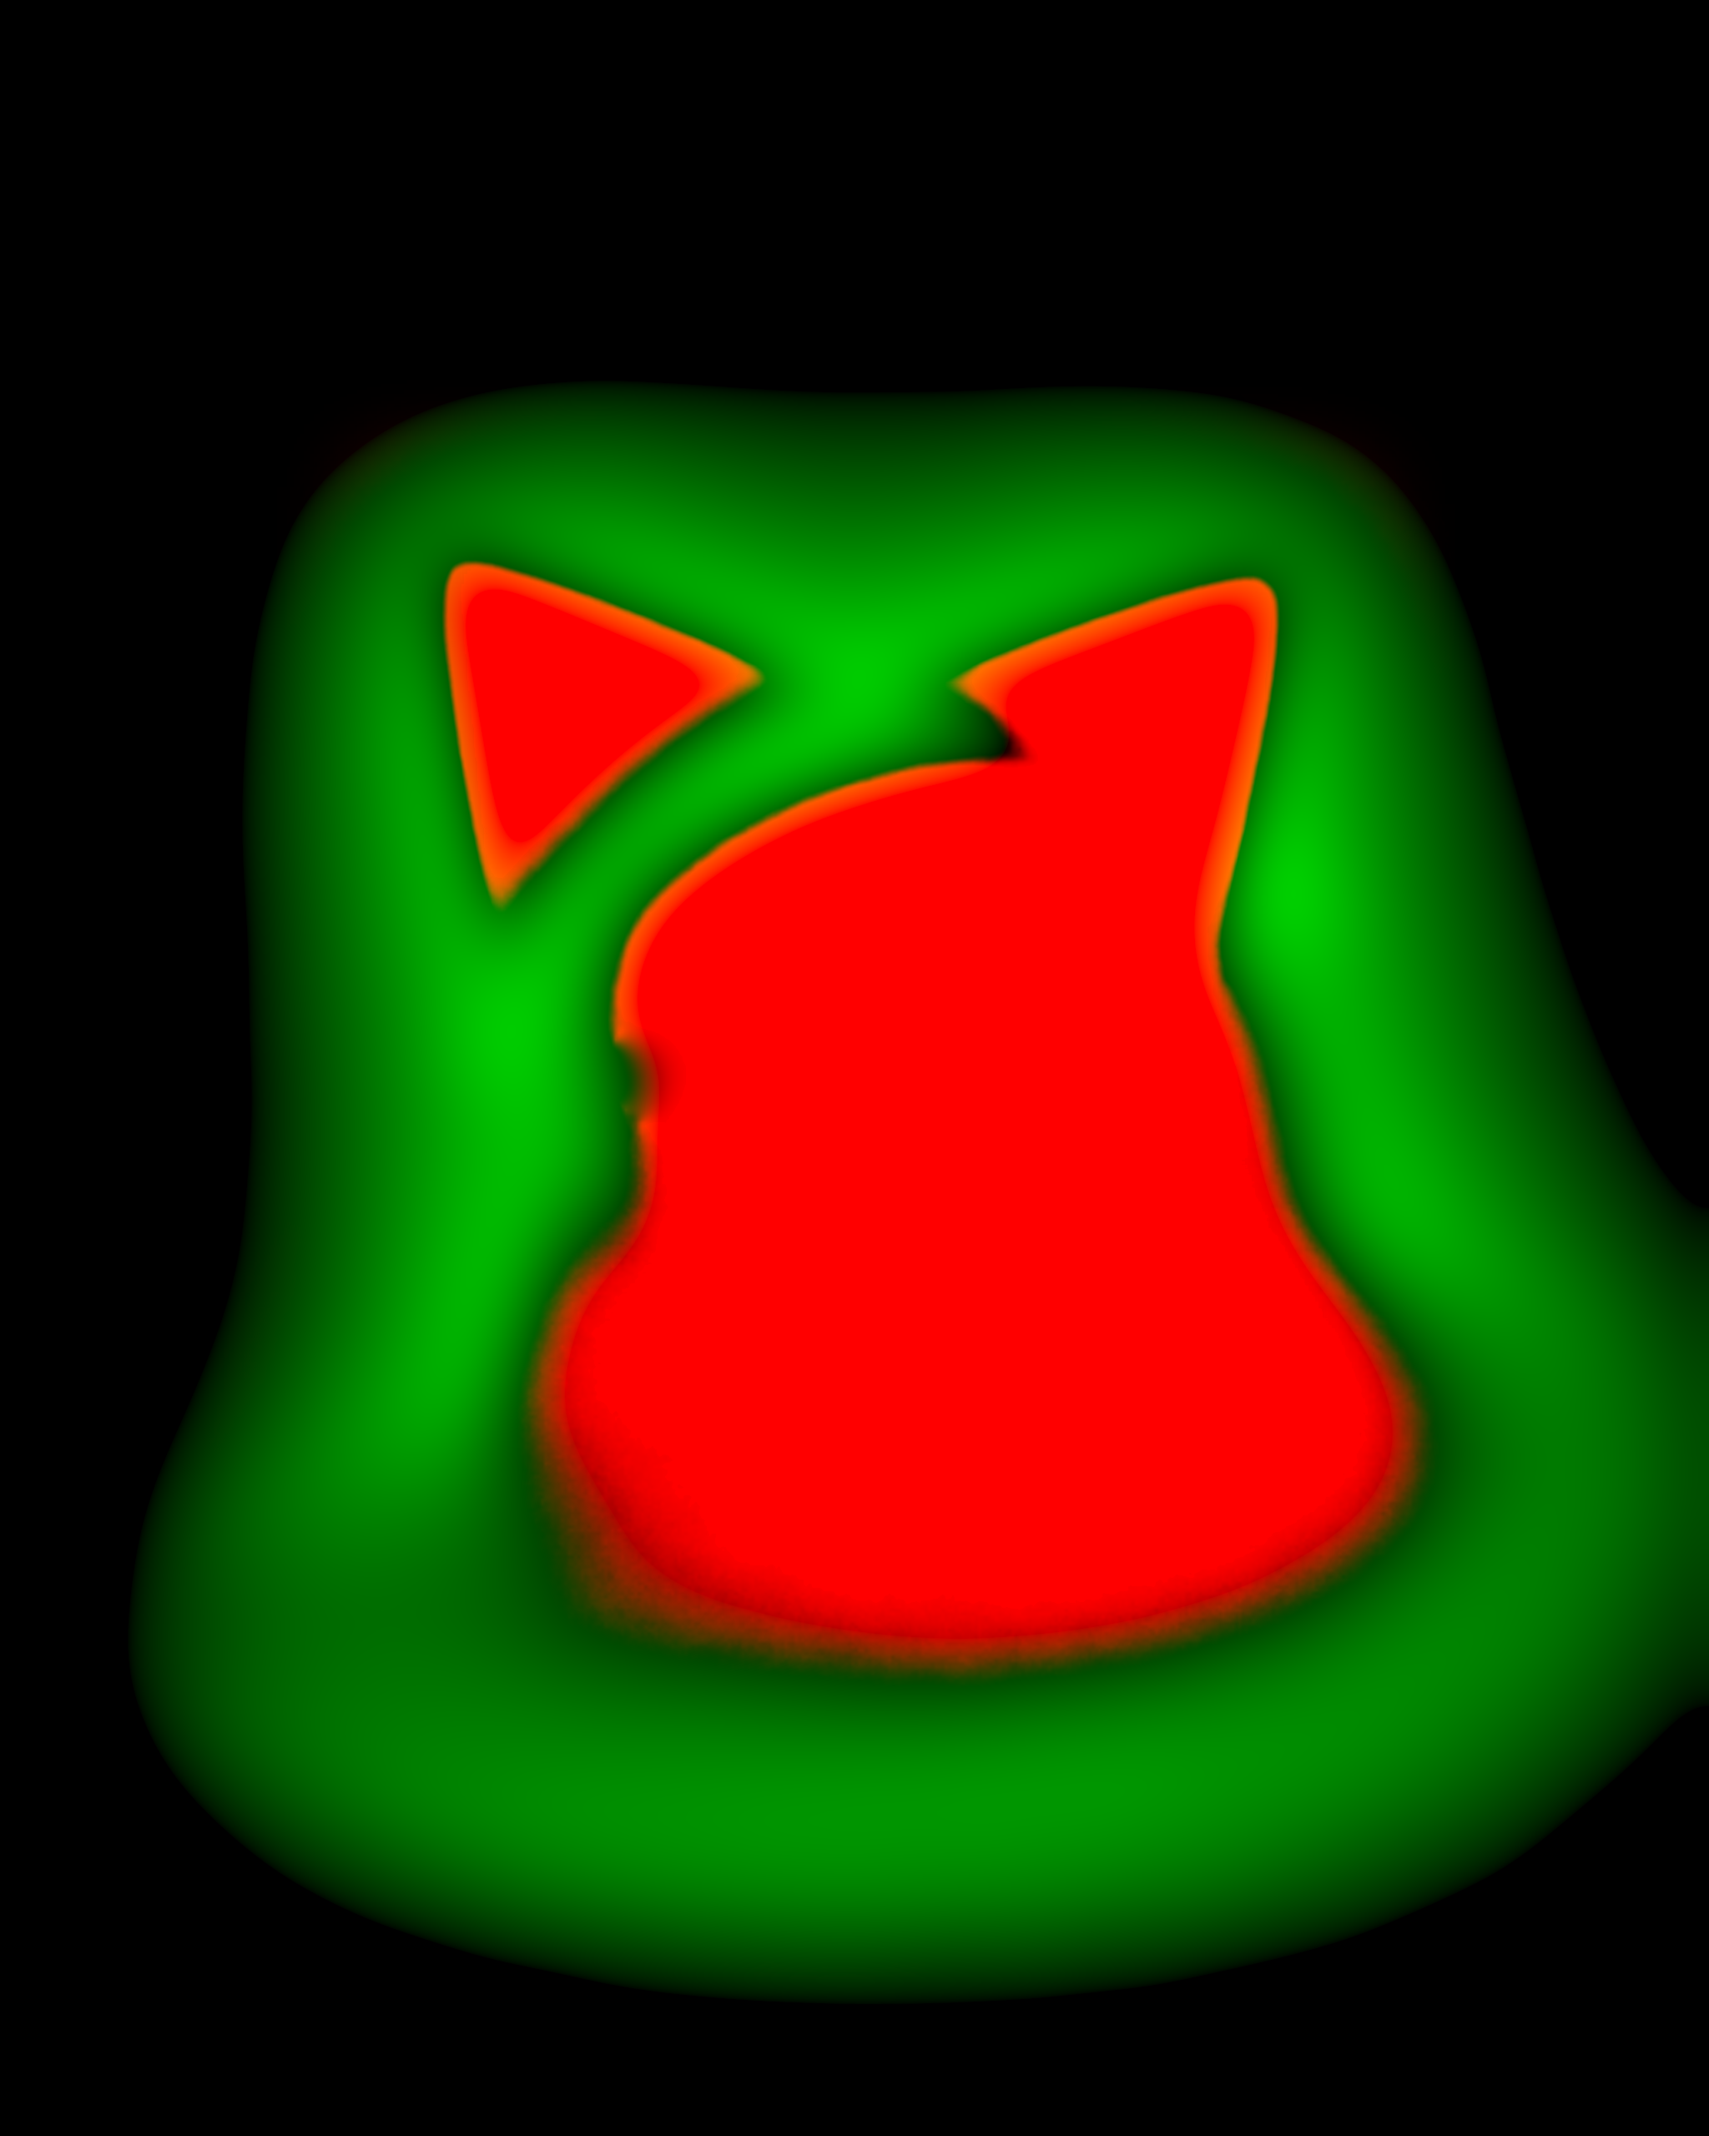
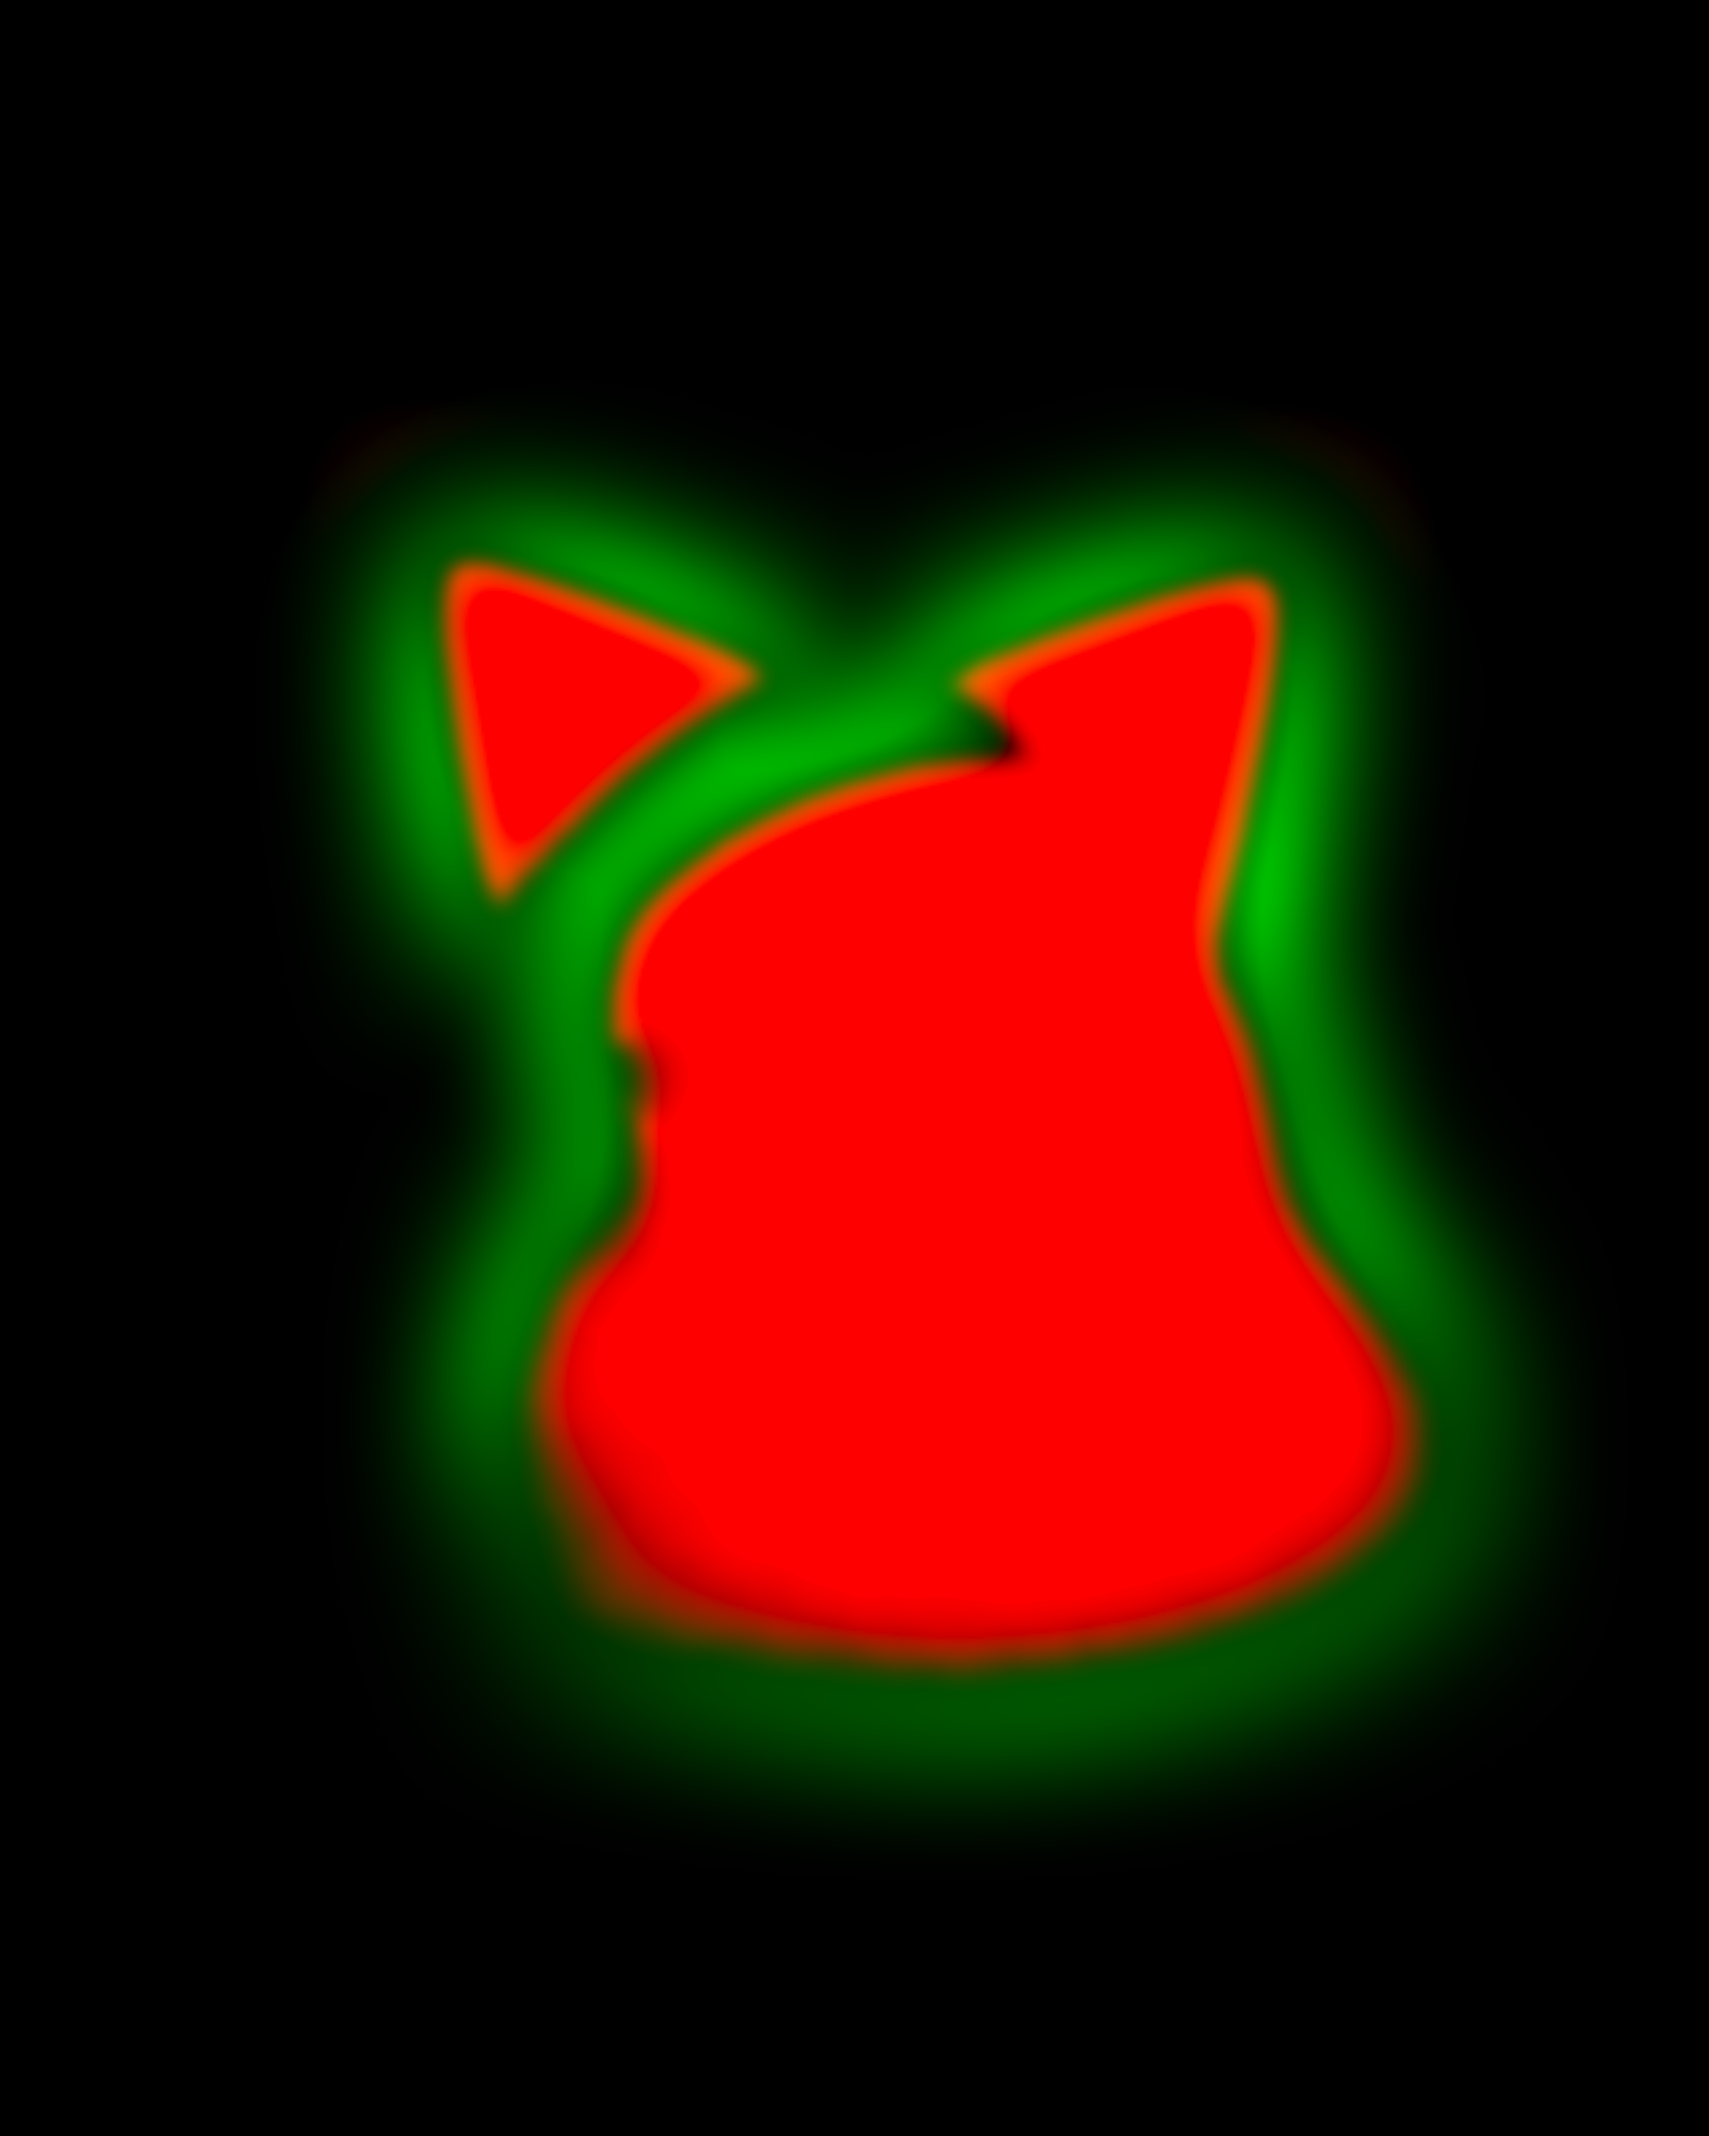
wip(kiwicat): clean halo coverage and prepare visual choices

diff --git a/app/ui/kiwicat/vectors.ts b/app/ui/kiwicat/vectors.ts
@@ -60,7 +60,7 @@ export function createVectorLayer(root: HTMLElement, width: number, height: numb
   const eyeNodes = [
     { cx: 802.823, cy: 1279.323, r: 68.251 },
     { cx: 1243.342, cy: 1279.308, r: 67.94 },
-  ].map(e => {
+  ].filter(() => !backdrop).map(e => {
     const outer = document.createElement("div");
     outer.style.cssText = `position:absolute;left:${e.cx / 2048 * 100}%;top:${e.cy / 2560 * 100}%;width:${e.r * 2 / 2048 * 100}%;height:${e.r * 2 / 2560 * 100}%;transform-origin:center;will-change:transform`;
     const disk = document.createElement("div"), happy = document.createElement("div"), asleep = document.createElement("div");
@@ -70,7 +70,6 @@ export function createVectorLayer(root: HTMLElement, width: number, height: numb
     const arc = (start: number, end: number) => path(points(64, u => { const a = (start + (end - start) * u) * Math.PI / 180; return [Math.cos(a), .1 + .55 * Math.sin(a)]; }), false);
     happy.innerHTML = wrap(`<path d="${arc(190, 350)}" stroke="white" stroke-width="${34 / e.r}" stroke-linecap="round" fill="none"/>`);
     asleep.innerHTML = wrap(`<path d="${arc(10, 170)}" stroke="white" stroke-width="${34 / e.r}" stroke-linecap="round" fill="none"/>`);
-    if (backdrop) outer.style.display = "none"; // Eyes sit on opaque coat; never add an eye halo.
     layer.append(outer);
     return { outer, disk, happy, asleep };
   });

diff --git a/app/scripts/kiwicat-cutout-variants.ts b/app/scripts/kiwicat-cutout-variants.ts
@@ -7,10 +7,10 @@ const server = await serveFogDemo("cat-demo.ts"), browser = await webkit.launch(
 try {
   const context = await browser.newContext({ viewport: { width: 800, height: 960 }, deviceScaleFactor: 1 });
   const page = await context.newPage();
-  for (const [variant, edgeBand, backing] of [["8-leve", .08, .5], ["8-forte", .08, .35], ["12-leve", .12, .5], ["12-forte", .12, .35]] as const) {
-    for (const state of ["repouso", "agindo"]) {
+  for (const [variant, backing, outline] of [["leve", .5, 1], ["forte", .35, 1], ["sem-apoio", .5, 0]] as const) {
+    for (const state of (variant === "sem-apoio" ? ["thinking"] : ["repouso", "dormindo", "acordou", "ouvindo", "thinking", "agindo", "pronto", "erro"])) {
       for (const background of ["000000", "ffffff", "367a8e"]) {
-        await page.goto(server.url + `/?state=${state}&parado=1&cutout=1&backing=${backing}&outline=1&edgeBand=${edgeBand}&background=%23${background}`);
+        await page.goto(server.url + `/?state=${state}&parado=1&cutout=1&backing=${backing}&outline=${outline}&edgeBand=.08&background=%23${background}`);
         await page.evaluate(() => { document.getElementById("fog")!.style.margin = "80px"; });
         await page.waitForFunction(() => (window as any).kiwiCatReady);
         await page.screenshot({ path: `${out}/${variant}-${state}-${background}.png` });

diff --git a/app/scripts/kiwicat-cutout-assets.py b/app/scripts/kiwicat-cutout-assets.py
@@ -1,5 +1,5 @@
 #!/usr/bin/env python3
-"""T9708: coverage from approved source layers, never from coat brightness.
+"""T9708: coverage from approved source layers, not brightness alone.
 Only generates new cutout files; opaque approved textures remain untouched.
 """
 from pathlib import Path
@@ -20,6 +20,9 @@ v=np.clip((observed-.08)/(.20-.08),0,1)
 # The layer alpha contains luminous feather outside the coat. Keep geometric
 # coverage only where the observed material is dark, not that luminous fringe.
 coat=coat*(1-v*v*(3-2*v))
+coat=np.asarray(Image.fromarray(np.uint8(np.rint(coat*255))).filter(ImageFilter.GaussianBlur(10)),np.float32)/255
+v=np.clip((coat-.003)/(.025-.003),0,1)
+coat=coat*v*v*(3-2*v)
 coat=np.where(coat>.98,1,coat)
 light=np.asarray(Image.open(DEST/'reference-no-eyes.webp').convert('RGB'),np.float32).max(2)
 light=np.asarray(Image.fromarray(light).resize((640,800),Image.Resampling.BILINEAR),np.float32)/255
@@ -33,9 +36,14 @@ def box(a,axis,r=10):
     hi=[slice(None),slice(None)]; lo=hi.copy(); hi[axis]=slice(2*r+1,None);lo[axis]=slice(None,-2*r-1)
     return ((c[tuple(hi)]-c[tuple(lo)])/(2*r+1)).astype(np.float32)
 for _ in range(3): light=box(box(light,0),1)
+proximity=np.asarray(Image.fromarray(coat).resize((640,800),Image.Resampling.BILINEAR),np.float32)
+for _ in range(3): proximity=box(box(proximity,0,r=25),1,r=25)
+proximity=np.clip(proximity*3,0,1)
+# Gate only the support opacity of existing light; never add emission. This
+# prevents the remote, straight source-image tail from becoming a dark plate.
+light=np.maximum(light-32/255,0)/(1-32/255)*proximity
 light=np.asarray(Image.fromarray(light).resize((2048,2560),Image.Resampling.BILINEAR),np.float32)
 # Coverage support is smooth, rather than magnifying byte noise in faint light.
-light=np.maximum(light-32/255,0)/(1-32/255)
 Image.fromarray(np.uint8(np.rint(np.stack([coat,np.sqrt(light),np.zeros_like(coat)],2)*255))).save(DEST/'cutout-mask.webp',lossless=True,method=6)
 # Static fallback: output premultiplied reference / coverage as straight RGBA.
 for name in ['reference','reference-no-eyes']:
@@ -57,4 +65,4 @@ for name in ['reference','reference-no-eyes']:
     straight=np.divide(rgb,alpha[:,:,None],out=np.zeros_like(rgb),where=alpha[:,:,None]>0)
     rgba=np.dstack([np.clip(straight,0,1),alpha])
     Image.fromarray(np.uint8(np.rint(rgba*255))).save(DEST/(name+'-cutout.webp'),lossless=True,method=6)
-(DEST/'cutout-source.json').write_text(json.dumps(dict(task='T9708',sources=hashes,method='source layer coverage gated by smoothed dark observed material; smooth light above32/255 pedestal, sqrt encoded; prototype8pct side/bottom fade; straight-alpha static fallback'),indent=2)+'\n')
+(DEST/'cutout-source.json').write_text(json.dumps(dict(task='T9708',sources=hashes,method='source layer coverage gated by smoothed dark observed material; float-smoothed light above32/255 pedestal gated near source coat; sqrt encoded; coat feather10px; prototype8pct side/bottom fade; straight-alpha static fallback'),indent=2)+'\n')

diff --git a/app/scripts/kiwicat-cutout-pixels.py b/app/scripts/kiwicat-cutout-pixels.py
@@ -1,0 +1,26 @@
+#!/usr/bin/env python3
+"""Verify real renderer PNGs from kiwicat-cutout-check.ts, not shader math."""
+from pathlib import Path
+import json,sys
+import numpy as np
+from PIL import Image
+root=Path(sys.argv[1] if len(sys.argv)>1 else '/tmp/kiwi-T9708-pixels')
+rows=[]
+for backend in ['auto','webgl2','none']:
+    for state in ['repouso','dormindo','acordou','ouvindo','thinking','agindo','pronto','erro']:
+        def rgb(kind): return np.asarray(Image.open(root/f'{backend}-{state}-{kind}.png').convert('RGB'),dtype=np.int16)
+        old=rgb('baseline'); opaque=rgb('opaque'); cutout=rgb('cutout')
+        alpha=np.asarray(Image.open(root/f'{backend}-{state}-cutout-alpha.png').convert('RGBA'))[:,:,3]
+        band=int(np.ceil(old.shape[1]*.08))
+        delta=np.abs(old-cutout)
+        outside=delta[:old.shape[0]-band,band:old.shape[1]-band]
+        row=dict(backend=backend,state=state,opaqueMax=int(np.abs(old-opaque).max()),outsideMax=int(outside.max()),cornerAlpha=int(alpha[0,0]),coatAlpha=int(alpha[480,320]),brighteningMax=int((cutout-old).max()))
+        assert row['opaqueMax']==0,row
+        assert row['outsideMax']<=2,row
+        assert row['cornerAlpha']==0 and row['coatAlpha']==255,row
+        # One screenshot byte allows output rounding, not added emission.
+        assert row['brighteningMax']<=1,row
+        rows.append(row)
+report=dict(band=.08,baseline='d2df9d3',scope='24 fixed-state real renderer cases, 640x800 DPR1 seed17; not performance',rows=rows)
+(root/'pixels.json').write_text(json.dumps(report,indent=2)+'\n')
+print(json.dumps(dict(cases=len(rows),opaqueMax=max(r['opaqueMax'] for r in rows),outsideMax=max(r['outsideMax'] for r in rows),passes=True)))

diff --git a/docs/brand/kiwi-cat/recorte/README.md b/docs/brand/kiwi-cat/recorte/README.md
@@ -1,0 +1,54 @@
+# Recorte do Kiwi-cat — T9708 / spec #9573
+
+**Em revisão visual.** A folha `variantes-leve-forte.webp` é uma prévia parada
+para a escolha do harry, não vídeo final nem medição de desempenho. A faixa
+interna de 8% foi escolhida pelo lead (#9751), e a limpeza e o apoio dos
+símbolos passaram na revisão #9760. A força da base ainda depende do harry. Nenhuma tela do app muda aqui.
+
+A folha reúne os oito estados, na mesma pose fixa e semente17, nas variantes
+leve (expoente0,5) e forte (0,35), em branco, preto e `#367a8e`. A última linha
+mostra `thinking` com e sem o apoio dos símbolos. São capturas do WebKit
+headless do módulo real, geradas por `kiwicat-cutout-variants.ts`, reduzidas
+de800×960 para200×240; o gato continua no seu quadro640×800, com margem80.
+
+A composição recortada preserva o RGB do renderer opaco como RGB
+premultiplicado. A cobertura do material vem das camadas originais, separada
+da luz. O apoio usa a intensidade suavizada acima do pedestal, limitado à
+proximidade do material. Isso muda a opacidade do apoio, sem criar emissão.
+A faixa nas bordas esquerda/direita/inferior só reduz a luz; ela não estende
+o quadro nem atinge o corpo/aro/olhos/símbolos. Os olhos não têm apoio extra;
+os símbolos têm uma cópia preta embaixo da névoa, com as mesmas poses.
+
+Os assets novos são reproduzidos por `app/scripts/kiwicat-cutout-assets.py`
+(Pillow13.0.0, NumPy2.5.4). Os assets opacos aprovados ficam intocados.
+A reserva sem GPU tem RGBA próprio e cobertura do corpo. O recorte é opt-in
+(`cutout:true`); o modo opaco conserva o caminho anterior.
+
+Verificação numérica: extrair `app/ui/kiwicat`,
+`app/scripts/kiwicat-demo.ts`, `app/src/bun/window-security.ts` e
+`app/package.json` do commit `d2df9d3` para uma pasta de teste, com o
+`node_modules` da versão fixa. Passar essa raiz em `KIWI_CAT_BASELINE` para
+`bun app/scripts/kiwicat-cutout-check.ts <saída>`, seguido de
+`python app/scripts/kiwicat-cutout-pixels.py <saída>`. São os oito estados
+nos caminhos WebGPU, WebGL2 e sem GPU, em modo parado. O teste compara o
+modo opaco byte a byte com o renderer anterior, o recorte fora da faixa
+(≤2/255), o alfa de um canto (0) e do centro do corpo (255).
+
+Ainda faltam o aceite visual, os vídeos finais sincronizados nos três
+fundos, as capturas do hub nos dois temas, CPU pareada da opção aprovada e
+FPS em movimento. Os números das experiências anteriores não substituem
+essas provas. Nenhuma captura usa mic, agente real, app nativo ou sessão
+de outra pessoa.
+
+A comparação ampliada `comparacao-base-400px.webp` tem três estados
+(repouso, agindo e dormindo), nas duas forças, em branco e cor. Cada quadro
+do gato tem400×500px. A folha tem118536bytes, em WebP com qualidade90; a
+compressão serve só para julgamento visual, nunca para o pixel-check.
+
+A rodada numérica depois da limpeza passou nos24casos: modo opaco com
+diferença0 contra d2df9d3; recorte com diferença máxima1/255 fora da faixa;
+canto com alfa0 e centro do corpo com alfa255 em todos. O relatório está
+em `pixels-parado.json`; é uma prova de quadros fixos, não de CPU/FPS.
+A suíte completa teve1786pass,5skip,0fail; o typecheck e os33testes do
+módulo/511asserts passaram. A escolha visual e a medição final continuam
+pendentes.
